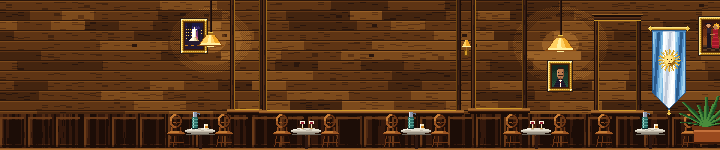
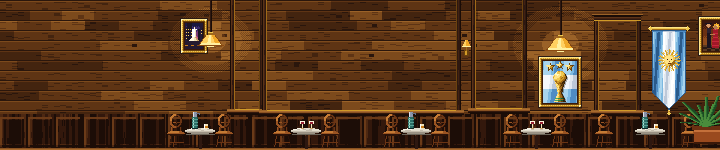
Cuadro de la copa del mundo con tres estrellas en el salón
Reemplaza al retrato bajo la lámpara de la derecha por un cuadro más grande
(44×52 px lógicos): la copa del mundo derecha con tres estrellas doradas en
arco sobre la bandera. Opción A elegida por el autor entre bocetos.

Changed region(s): [[0.7333, 0.3733, 0.825, 0.72]]

diff --git a/tools/art/make_salon.py b/tools/art/make_salon.py
@@ -2,7 +2,7 @@
 
   assets/art/pixel-v3/salon-v3.png       720×150 px lógicos (se dibuja a 1440×300): pared de tablones como la tienda,
                                          jambas de ventana con filete dorado, dintel y alféizar, boiserie en penumbra,
-                                         cuadros, lámparas, aplique, banderín, planta, sillas de café y mesitas de mármol
+                                         cuadros (uno con la copa del mundo y tres estrellas), lámparas, aplique, banderín, planta, sillas de café y mesitas de mármol
   assets/art/pixel-v3/parteluces-v3.png  720×150, transparente: parteluces y travesaños de madera sobre el vidrio
                                          (backdrop.gd los dibuja encima del exterior y debajo de la mano y la nube)
 
@@ -17,7 +17,12 @@ import os
 import sys
 
 sys.path.insert(0, os.path.dirname(os.path.abspath(__file__)))
-from pixel_lib import Canvas, GOLD, SILVER, COPPER, WALL, BEAM, SHADE, LEAF, IVORY, PANEL, ramp, hash2, upscale
+import numpy as np
+from PIL import Image, ImageDraw
+from scipy import ndimage
+
+from pixel_lib import (Canvas, GOLD, SILVER, COPPER, WALL, BEAM, SHADE, LEAF, IVORY, PANEL, CELESTE, WHITE, ramp,
+                       hash2, upscale)
 import texturas
 
 W, H = 720, 150
@@ -31,6 +36,9 @@ BENT = ramp("2a1208", "6a3414", "9a5422", "c47a34")
 MARBLE = ramp("6a6458", "9a9284", "c4bcac", "e2dccc", "f6f2e6")
 GLASS = ramp("0e2a2a", "1a4a46", "2c6e66", "5aa094", "a8e0d0")
 WINE = (150, 30, 50)
+CUP_GREEN = ramp("0c321a", "1a5a2e", "2e8a44", "4aa860")
+# cuadro de la copa del mundo (marco dorado; interior 34×42)
+COPA_FRAME = (538, 56, 44, 52)
 
 
 def halo(x: int, y: int) -> int:
@@ -184,6 +192,112 @@ def cafe_table(cv: Canvas, cx: int, top: int, items: str) -> None:
             cv.put(gx, top - 10, IVORY[4])
 
 
+def _pick(r, t):
+    return r[max(0, min(len(r) - 1, int(t * len(r))))]
+
+
+def _star(cv: Canvas, cx: float, cy: float, R: float) -> None:
+    """Estrella de cinco puntas dorada: mitad izquierda clara, derecha en sombra, borde oscuro abajo-derecha."""
+    pts = []
+    for k in range(10):
+        a = -math.pi / 2 + k * math.pi / 5
+        r = R if k % 2 == 0 else R * 0.45
+        pts.append((cx + math.cos(a) * r, cy + math.sin(a) * r))
+    m = Image.new("L", (cv.w, cv.h), 0)
+    ImageDraw.Draw(m).polygon(pts, fill=255)
+    mask = np.array(m) > 0
+    for y, x in zip(*np.nonzero(mask)):
+        c = GOLD[5] if x + 0.5 < cx else GOLD[3]
+        if y + 0.5 > cy + R * 0.25 and x + 0.5 >= cx:
+            c = GOLD[2]
+        cv.put(x, y, c)
+    edge = mask & ~ndimage.binary_erosion(mask, border_value=0)
+    for y, x in zip(*np.nonzero(edge)):
+        if x + 0.5 >= cx or y + 0.5 > cy:
+            cv.put(x, y, GOLD[1])
+    cv.put(int(cx), int(cy - R * 0.3), GOLD[6])
+
+
+def _trophy(cv: Canvas, cx: float, top: int) -> np.ndarray:
+    """Copa del mundo derecha: globo con continentes, dos figuras en espiral, cintura fina, bandas verdes y pie."""
+    gr = 6.6
+    gy = top + gr
+    body_top = gy + gr * 0.55
+    base_y = top + 31
+    solid = np.zeros((cv.h, cv.w), bool)
+    for y in range(cv.h):
+        for x in range(cv.w):
+            yy = y + 0.5
+            if not body_top <= yy <= base_y:
+                continue
+            k = (yy - body_top) / (base_y - body_top)
+            if k < 0.62:
+                half = 5.6 - 3.2 * math.sin(min(1.0, k / 0.62) * math.pi / 2)
+            elif k < 0.8:
+                half = 2.4 + 2.2 * (k - 0.62) / 0.18
+            else:
+                half = 5.2 + (0.6 if k > 0.93 else 0.0)
+            d = x + 0.5 - cx
+            if abs(d) > half:
+                continue
+            solid[y, x] = True
+            s = d / half
+            if 0.8 <= k < 0.86 or 0.9 <= k < 0.95:
+                G = CUP_GREEN
+                c = G[3] if s < -0.45 else (G[2] if s < 0.1 else (G[1] if s < 0.6 else G[0]))
+            else:
+                t = 0.8 - (s + 1) * 0.34
+                if -0.7 < s < -0.4:
+                    t += 0.12  # brillo vertical
+                if k < 0.66 and ((yy * 0.9 + d * 1.3) % 4.6) < 1.1:
+                    t -= 0.2  # figuras en espiral
+                c = _pick(GOLD, t)
+            cv.put(x, y, c)
+    for y in range(cv.h):
+        for x in range(cv.w):
+            nx, ny = (x + 0.5 - cx) / gr, (y + 0.5 - gy) / gr
+            e = nx * nx + ny * ny
+            if e > 1.0:
+                continue
+            solid[y, x] = True
+            lit = -0.6 * nx - 0.6 * ny + 0.55 * math.sqrt(1 - e)
+            t = 0.42 + lit * 0.45
+            if math.sin(nx * 5.0 + ny * 1.8 + 0.6) * math.cos(ny * 4.4 - nx * 0.9) > 0.42:
+                t -= 0.17  # continentes en relieve
+            cv.put(x, y, _pick(GOLD, t))
+    hx, hy = int(cx - gr * 0.45), int(gy - gr * 0.5)
+    for dx, dy in ((0, 0), (1, 0), (0, 1)):
+        cv.put(hx + dx, hy + dy, GOLD[6])
+    # borde un tono más oscuro del oro en el lado de la sombra
+    edge = solid & ~ndimage.binary_erosion(solid, border_value=0)
+    for y, x in zip(*np.nonzero(edge)):
+        if x + 0.5 >= cx - 2:
+            c = cv.get(x, y)
+            i = min(range(len(GOLD)), key=lambda j: sum((a - b) ** 2 for a, b in zip(GOLD[j], c)))
+            cv.put(x, y, GOLD[max(0, i - 1)])
+    return solid
+
+
+def copa_cuadro(iw: int, ih: int) -> Canvas:
+    """La copa del mundo con tres estrellas en arco, sobre la bandera (celeste, blanca y celeste con pliegues).
+    Elegido por el autor (opción A, nov 2026); reemplaza al retrato que estaba bajo la lámpara."""
+    cv = Canvas(iw, ih)
+    cx = iw / 2
+    for y in range(ih):
+        for x in range(iw):
+            f = math.sin(x * 0.32 + y * 0.04) * 0.5 + 0.5
+            band = WHITE if ih / 3 <= y < ih * 2 / 3 else CELESTE
+            cv.put(x, y, band[3] if f > 0.66 else (band[2] if f > 0.2 else band[1]))
+    for sx, sy in ((cx - 9.5, 6.0), (cx, 4.5), (cx + 9.5, 6.0)):
+        _star(cv, sx, sy, 3.8)
+    solid = _trophy(cv, cx, 10)
+    # sombra de la copa sobre la bandera, abajo a la derecha
+    sh = np.roll(np.roll(solid, 1, 0), 1, 1) & ~solid
+    for y, x in zip(*np.nonzero(sh)):
+        cv.put(x, y, tuple(int(v * 0.7) for v in cv.get(x, y)))
+    return cv
+
+
 def plant(cv: Canvas, x: int, base: int) -> None:
     cv.rect(x - 12, base - 14, 26, 14, COPPER[2])
     cv.rect(x - 12, base - 14, 26, 2, COPPER[3])
@@ -208,7 +322,8 @@ def salon() -> Canvas:
     for w in WIN:
         casing(cv, *w)
     texturas.cuadro(cv, 180, 18, 28, 36, "building")
-    texturas.cuadro(cv, 547, 60, 26, 32, "portrait")
+    ix, iy, iw, ih = texturas.marco(cv, *COPA_FRAME)
+    cv.blit(copa_cuadro(iw, ih), ix, iy)
     texturas.cuadro(cv, 698, 16, 28, 40, "dancers")
     for lx, ly, s in LAMPS:
         lamp(cv, lx, ly, s)

diff --git a/docs/PLAN-ARTE-PIXEL.md b/docs/PLAN-ARTE-PIXEL.md
@@ -186,7 +186,7 @@ Cada fase termina con: assets en `assets/art/pixel-v3/`, capturas antes/después
 - **Vaso (`make_mate_vaso.gd`, opción B):** misma forma; negro con corrimiento de tono (sombras al azul noche, luces al marrón cálido), manchas suaves de cuero aceitado, brillo vertical en tramos, pelo en el fieltro y un reflejo bordó del paño en el borde derecho.
 - **Mate (`make_mate.gd`, opción C):** toda la calabaza en el tono oscuro del antiguo panel inferior, pareja y sin costura dorada. Bombilla, aro, collar y tiras sin cambios.
 - **Paño (`make_mesa.gd`, opción C):** brocado de rombos tono sobre tono con un punto al centro, en la perspectiva de la mesa, sobre manchas suaves y un charco de luz de las lámparas; rampa de 7 bordós (la base sigue siendo `8c1c2e`). Filetes, ornamentos, sombras de contacto, madera, frente y piso no cambian.
-- **Salón (`tools/art/make_salon.py`, opción A; reemplaza a `make_salon.gd`):** pasa a Python porque usa `texturas.py`, como la tienda. Pared de tablones igual a la de la tienda, jambas de madera con filete dorado, dintel con cornisa y alféizar profundo, boiserie en penumbra bajo las ventanas, sillas de café de madera curvada y mesitas de mármol con sifón o copas, cuadros con marco dorado (Obelisco, retrato, tango), banderín con Sol de Mayo, lámparas colgantes y un aplique. La lámpara que tapaba un retrato se separó.
+- **Salón (`tools/art/make_salon.py`, opción A; reemplaza a `make_salon.gd`):** pasa a Python porque usa `texturas.py`, como la tienda. Pared de tablones igual a la de la tienda, jambas de madera con filete dorado, dintel con cornisa y alféizar profundo, boiserie en penumbra bajo las ventanas, sillas de café de madera curvada y mesitas de mármol con sifón o copas, cuadros con marco dorado (Obelisco y tango), banderín con Sol de Mayo, lámparas colgantes y un aplique. Bajo la lámpara de la derecha, un cuadro más grande (44×52 px lógicos) con la copa del mundo y tres estrellas en arco sobre la bandera; reemplaza al retrato y lo eligió el autor entre bocetos (opción A, `test-results/propuesta/cuadro3/`).
 - **Parteluces (`pixel-v3/parteluces-v3.png`):** capa transparente que `scripts/backdrop.gd` dibuja sobre el exterior y debajo de la mesa, la mano y la nube: el ventanal en cuatro hojas con banderola y travesaños en las otras ventanas. No se dibuja en el ambiente «cierre» (ventanas tapiadas). Las ventanas y el panorama no cambian de lugar.
 - **Para revertir:** quitar el dibujo de `MULLIONS_V3` en `scripts/backdrop.gd` y regenerar con las versiones anteriores de los generadores (historial de Git).
 - Suite: 2198 comprobaciones, 0 fallos. Revisado en `test-results/1280x800-drag-groups-grupo.png` y en las capturas de presentación de los siete ambientes.

diff --git a/ART-PROMPTS.md b/ART-PROMPTS.md
@@ -38,7 +38,7 @@ El cuerpo del dado ahora usa el sprite transparente `assets/art/ivory-die-v3.png
 
 `assets/art/pixel-v3/mate-v3.png` (01/11/2026): generado con `tools/art/make_mate.gd` (sin IA de imagen). Reemplaza al mate de madera con virola de greca. Lo eligió el autor (opción Z2) tras varias rondas de bocetos, a partir de dos fotos de referencia que aportó: un mate de cuero negro con bombilla de alpaca y un mate de calabaza pixelado con aro y tiras de plata. Calabaza redonda de un solo tono marrón oscuro (hasta el 02/11/2026 tenía un panel de dos tonos con costura dorada); collar, aro y tiras de plata con remaches; sin patas ni base. Bombilla de metal en perspectiva (se ensancha hacia la punta), con codo, boquilla con abertura, virola dorada y sin contorno negro; entra por un hueco húmedo de la yerba.
 
-`assets/art/pixel-v3/salon-v3.png` y `parteluces-v3.png` (02/11/2026): generados con `py -3.13 tools/art/make_salon.py` (sin IA de imagen), con la distribución del salón de `mesa-libreta-frontal-v1.png` (ventanas, lámparas, cuadros, sillas, banderín argentino, planta) y las texturas de la tienda (`texturas.py`). Elegidos por el autor entre bocetos (opción A con parteluces). En la misma revisión cambiaron `vaso-v3.png` (colores con matiz, opción B), `mate-v3.png` (tono oscuro parejo, opción C) y el paño de `mesa-v3.png` (brocado de rombos, opción C).
+`assets/art/pixel-v3/salon-v3.png` y `parteluces-v3.png` (02/11/2026): generados con `py -3.13 tools/art/make_salon.py` (sin IA de imagen), con la distribución del salón de `mesa-libreta-frontal-v1.png` (ventanas, lámparas, cuadros, sillas, banderín argentino, planta) y las texturas de la tienda (`texturas.py`). Elegidos por el autor entre bocetos (opción A con parteluces). Incluye un cuadro con la copa del mundo y tres estrellas sobre la bandera, dibujado por código (sin IA de imagen ni fotos de referencia). En la misma revisión cambiaron `vaso-v3.png` (colores con matiz, opción B), `mate-v3.png` (tono oscuro parejo, opción C) y el paño de `mesa-v3.png` (brocado de rombos, opción C).
 
 `assets/art/pixel-v3/tienda-v3.png` (01/11/2026): generado con `python tools/art/make_tienda.py` (sin IA de imagen nueva). El vendedor (`tools/art/vendedor.py`) es una conversión del dibujo de `shop-salesman-v1.png` (Imagegen, inspirado en las fotos del usuario; ver `assets/art/shop-salesman-prompts-v1.md`): reducción a la grilla lógica, paleta propia por zona y limpieza de ruido con el método de sprite-forge, sin redibujar rasgos. El maletín (`tools/art/maletin.py`) se dibuja por código con la silueta del original. El salón y las bandas siguen los motivos de `salon-v3.png`.
 
